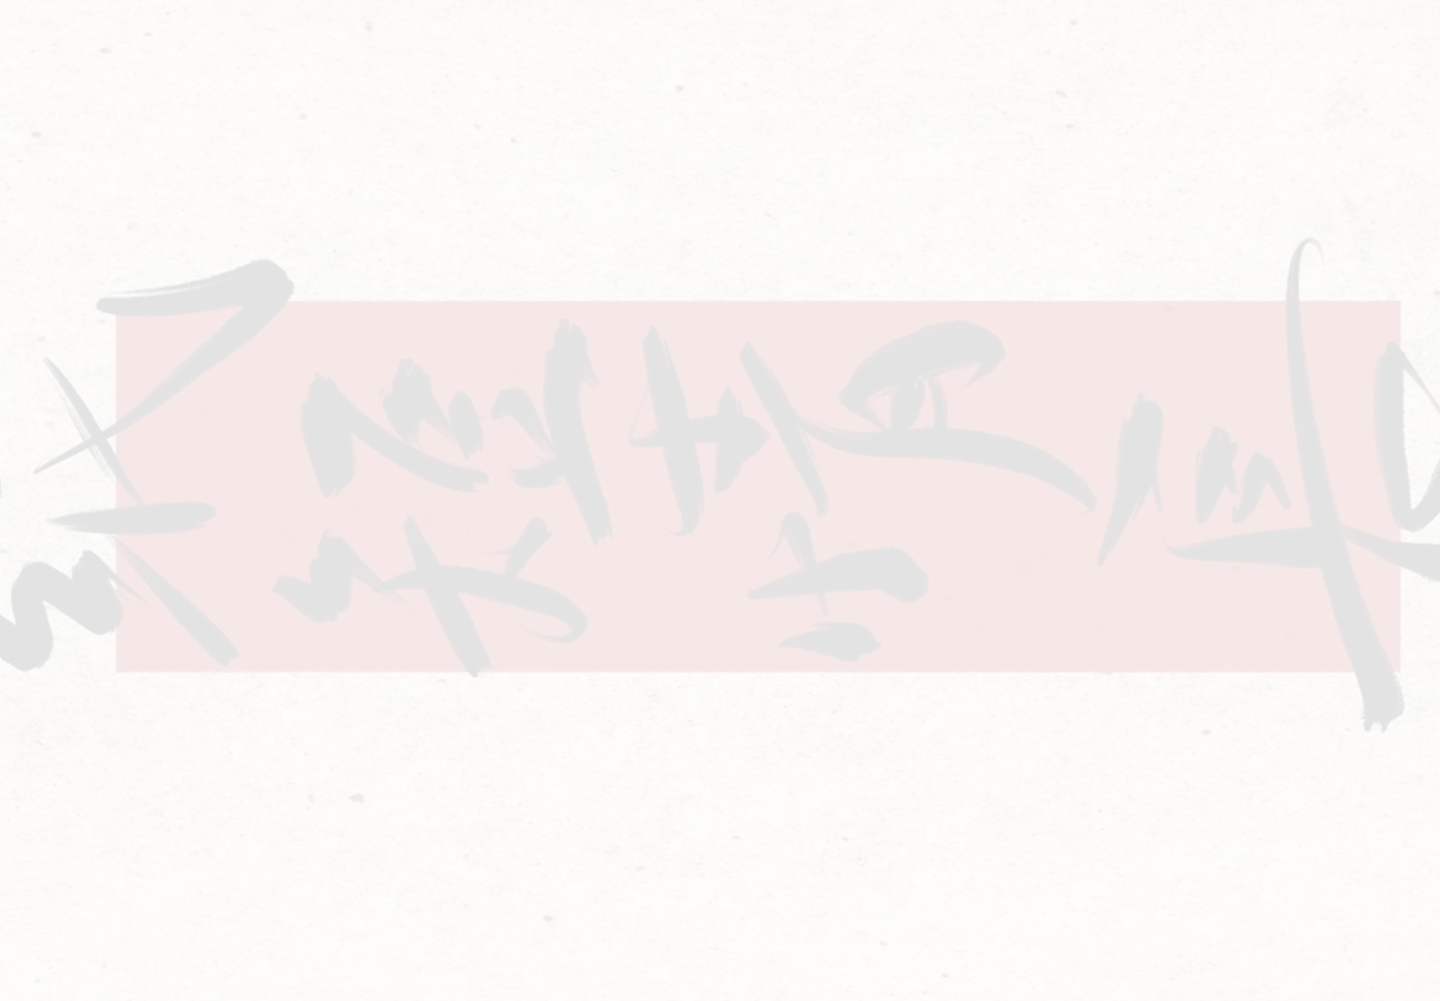
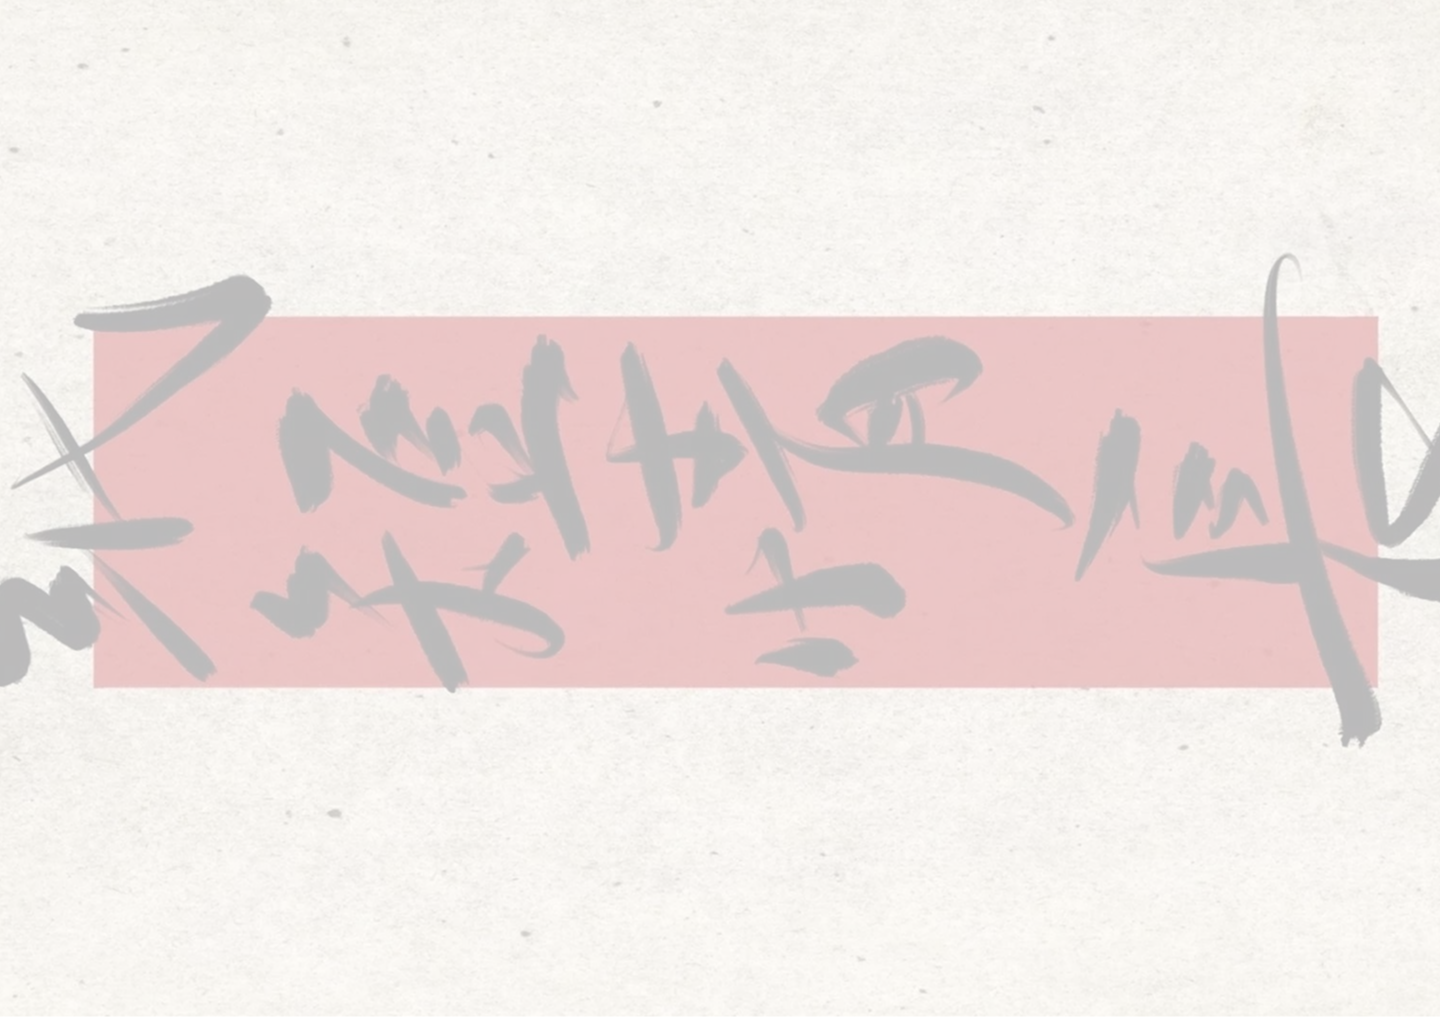
Added navbar, registration box and registration page

diff --git a/website/src/pages/Homepage.jsx b/website/src/pages/Homepage.jsx
@@ -1,20 +1,34 @@
 import React from 'react'
 import branches from '../assets/branches.png'
-import Seal from '../assets/AcmSeal.png'
 import banner from '../assets/banner.png'
-import grass from '../assets/grassSamurai.png'
+import grass from '../assets/grass.png'
+import samurai from '../assets/samurai.png'
+import Navbar from '../components/Navbar'
+
 function Homepage() {
   return (
-     <div className="relative h-screen w-screen overflow-hidden">
+    <div
+  className=" h-screen w-screen overflow-hidden bg-cover bg-center"
+  style={{
+    backgroundImage: `url(${banner})`,
+ 
+  }}
+>
+        <div className="mt-5">
+<Navbar></Navbar>
+      </div>
+      <div className='absolute top-0 left-0 z-10'>
+
       <img  
         src={branches}
         alt="branches"
-        className="absolute  z-10 max-w-[30%] md:max-w-[20%] "
-      />
+        className="  z-10 min-w-[70%] md:max-w-[20%] "
+        />
+        </div>
       <div className='flex justify-end'>
 
       <div className='flex flex-col'>
-        <div className="font-lastshuriken  mr-30 text-4xl mt-30">
+        <div className="font-lastshuriken  mr-30 text-4xl mt-8">
          Feature Creep Chaos
         </div>
          <div className='font-zenantique flex justify-end mr-30 text-3xl mt-1'>
@@ -23,26 +37,16 @@ function Homepage() {
           </div>
       </div>
 
-      <div className="absolute inset-0 flex items-center justify-center pointer-events-none">
-        <div className="relative flex items-center justify-center">
-          <img
-            src={banner}
-            alt="banner"
-            className=" max-w-screen "
-          />
-          <img
-            src={Seal}
-            alt="seal"
-            className="absolute"
-          />
-        </div>
-      </div>
-
+<div className='absolute bottom-0'>
       <img
         src={grass}
         alt="grass"
-        className="absolute bottom-0 left-0 w-full h-100 z-10"
-      />
+        className=" z-10"
+        />
+        </div>
+        <div className=' absolute bottom-0 right-40'>
+          <img src={samurai} alt="" className='h-100'/>
+        </div>
     </div>
   )
 }

diff --git a/website/src/components/RegistrationBox.jsx b/website/src/components/RegistrationBox.jsx
@@ -1,0 +1,26 @@
+import React from 'react'
+
+function RegistrationBox() {
+  return (
+    <div>
+        <div className="rounded-sm border border-white flex-col backdrop-blur-lg pt-7 px-10 w-170">
+                <div className='flex justify-around mb-10'>
+                    <div className='font-lastshuriken text-white text-4xl '>Register</div>
+                    <div className="font-zenantique text-white text-4xl">登録する</div>
+                </div>
+                <div className='flex justify-items-start border border-white rounded-sm backdrop-blur-2xl p-4 bg-black/5  text-[#4c4747] mb-4'>Clan name</div>
+                <div className='flex justify-items-start border border-white rounded-sm backdrop-blur-2xl p-4 text-[#4c4747]  bg-black/5   mb-4'>Clan name</div>
+                <div className='flex justify-items-start border border-white rounded-sm backdrop-blur-2xl p-4 text-[#4c4747]  bg-black/5   mb-4'>Clan name</div>
+                <div className='flex justify-items-start border border-white rounded-sm backdrop-blur-2xl p-4 text-[#4c4747]  bg-black/5   mb-4'>Clan name</div>
+                <div className='flex justify-items-start border border-white rounded-sm backdrop-blur-2xl p-4 text-[#4c4747]  bg-black/5   mb-4'>Clan name</div>
+                <div className='flex justify-center'>
+                  <div className='bg-[#b01d1d] border border-[#1e1e1e] py-1 px-17 mt-3 text-3xl mb-20 text-white '> Enter</div>
+
+                </div>
+               
+        </div>
+    </div>
+  )
+}
+
+export default RegistrationBox

diff --git a/website/src/pages/RegistrationPage.jsx b/website/src/pages/RegistrationPage.jsx
@@ -1,0 +1,34 @@
+import React from 'react'
+import bg from '../assets/lakeBg.png'
+import Navbar from '../components/Navbar'
+import RegistrationBox from '../components/RegistrationBox'
+import Seal from '../assets/AcmSeal.png'
+function RegistrationPage() {
+  return (
+      <div
+  className=" h-screen w-screen overflow-hidden bg-cover bg-center"
+  style={{
+    backgroundImage: `url(${bg})`,
+ 
+  }}
+>
+        <div className="mt-5">
+<Navbar></Navbar>
+      </div>
+<div className="flex justify-center flex-wrap gap-40 mt-10 mr-15">
+    <div className='flex items-center'>
+
+    <div>
+        <img src={Seal} alt=""  className='w-140'/>
+    </div>
+    </div>
+    <div>
+        <RegistrationBox></RegistrationBox>
+
+    </div>
+</div>
+    </div>
+  )
+}
+
+export default RegistrationPage

diff --git a/website/src/components/Navbar.jsx b/website/src/components/Navbar.jsx
@@ -1,0 +1,26 @@
+import React from 'react'
+
+function Navbar() {
+  return (
+    <div>
+        <div className="flex justify-end  p-1">
+            <div className=" flex justify-evenly gap-50 text-2xl font-extrabold pr-20">
+                <div>
+                    Home
+                </div>
+                <div>
+                    Arena
+                </div>
+                <div>
+                    Guidelines
+                </div>
+                <div>
+                    About Us
+                </div>
+            </div>
+        </div>
+    </div>
+  )
+}
+
+export default Navbar

diff --git a/website/src/App.jsx b/website/src/App.jsx
@@ -2,6 +2,7 @@ import React from 'react'
 
 import { BrowserRouter as Router, Routes, Route } from "react-router-dom";
 import Homepage from "./pages/Homepage";
+import RegistrationPage from './pages/RegistrationPAge';
 
 function App() {
   return (
@@ -9,6 +10,7 @@ function App() {
      <Router>
       <Routes>
         <Route path="/" element={<Homepage />} />
+        <Route path="/register" element={<RegistrationPage />} />
       </Routes>
     </Router>
     
